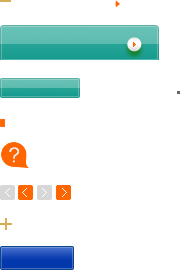
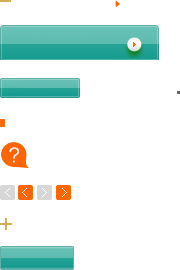
v2

Changed region(s): [[0.0, 0.8889, 0.4167, 1.0]]

diff --git a/product-info.html b/product-info.html
@@ -267,28 +267,24 @@ window.onload = function(){
                                 
                                 <div class="desc-order-area fl">
                                 	<div class="desc-wrap">
-                                    	<h3 class="pro-name">0.5~1A 50V~1000V 贴片整流桥堆</h3>
-                                        <p><label>型号：</label><span></span></p>
-                                        <p><label>品牌：</label><span></span></p>
-                                        <p><label>封装：</label><span></span></p>
-                                        <p><label>特性：</label><span></span></p>
-                                        <ul class="feature-items clear">
-                                            <li class="feature-item"><label>★典型参数：</label><span></span></li>
-                                            <li class="feature-item"><label>★芯片材质：</label><span></span></li>
-                                            <li class="feature-item"><label>★正向电流(Io)：</label><span></span></li>
-                                            <li class="feature-item"><label>★芯片个数：</label><span></span></li>
-                                            <li class="feature-item"><label>★向电压(VF)：</label><span></span></li>
-                                            <li class="feature-item"><label>★芯片尺寸：</label><span></span></li>
-                                            <li class="feature-item"><label>★浪涌电流(ifsm)：</label><span></span></li>
-                                            <li class="feature-item"><label>★是否进口：</label><span></span></li>
-                                            <li class="feature-item"><label>★漏电流(Ir)：</label><span></span></li>
-                                            <li class="feature-item"><label>★工作温度：</label><span></span></li>
-                                            <li class="feature-item"><label>★恢复实践(Trr)：</label><span></span></li>
-                                            <li class="feature-item"><label>★引线数量：</label><span></span></li>
+                                    	<h3 class="pro-name">开关电源NES-100-5 100W 5V20A 集中供电</h3>
+                                        <p>主要特点:</p>
+                                      	<ul class="feature-items clear">
+                                            <li class="feature-item"><label>★全球通用全范围交流输入电压</label></li>
+                                            <li class="feature-item"><label>★有短路保护/过载保护/过电压保护</label></li>
+                                            <li class="feature-item"><label>★通过国际安规认证UL/CB/CCC</label></li>
+                                            <li class="feature-item"><label>★通过中国国家安规认证 CCC认证</label></li>
+                                            <li class="feature-item"><label>★自然通风冷却</label></li>
+                                            <li class="feature-item"><label>★小尺寸、高功率密度</label></li>
+                                            <li class="feature-item"><label>★高性价比、高可靠</label></li>
+                                            <li class="feature-item"><label>★100%满载老化测试</label></li>
+                                            <li class="feature-item"><label>★有安规认证的低功率电源最佳解决方案</label></li>
+                                            <li class="feature-item"><label>★台湾明纬品牌,广州工厂生产</label></li>
+                                            <li class="feature-item"><label>★2年质保</label></li>
                                         </ul>
                                     </div>
                                     <div class="order-wrap">
-                                    	<p class="order-hot-line"><span>订购热线：</span><em>400-9929-667</em></p>
+                                    	<p class="order-hot-line"><span>订购热线：</span><em>020-2918-5403</em></p>
                                         <button>立即采购</button>
                                     </div>
                                 </div>
@@ -382,67 +378,100 @@ window.onload = function(){
                                 
                                 <div class="pro-detail">
                                 	<img src="images/products/pro-imgs/rectifier-bridge/product1/pic1.png"/>
-                                    <p class="pro-name">IP系列-LED系列驱动电源 IPGK15W</p>
+                                    <p class="pro-name">开关电源NES-100-5 100W 5V20A 集中供电</p>
                                     <div class="param-wrap">
-                                    	<table class="pro-feature">
-                                            <tr>
-                                            	<td colspan="2" class="title">0.5~1A 50V~1000V 贴片整流桥堆</td>
-                                            </tr>
-                                            <tr>
-                                            	<td colspan="2"></td>
-                                            </tr>
-                                            <tr>
-                                            	<td colspan="2">产品特性(Overview)</td>
-                                            </tr>
-                                            <tr>
-                                            	<td width="350"><em>★</em>国际通用范围内交流输入(90~264VAC) AC Input(90~264VAC)</td>
-                                                <td><em>★</em>100%满载老化测试 100% Full Load Burn-in Test</td>
-                                            </tr>
-                                            <tr>
-                                            	<td><em>★</em>保护种类:短路/过负载/过电压 Protections:Short Circuit/Over Load/Over Voltage/Over Temp</td>
-                                                <td><em>★</em>高度信赖 High Reliability</td>
-                                            </tr>
+                                    	<table class="pro-param">
+                                            <thead>
+                                                <tr>
+                                                    <td colspan="2" class="title">开关电源NES-100-5 100W 5V20A 集中供电</td>
+                                                </tr>
+                                            </thead>
+                                            <tbody>
+                                                <tr>
+                                                    <td colspan="2"></td>
+                                                </tr>
+                                                <tr>
+                                                    <td colspan="2">主要参数</td>
+                                                </tr>
+                                                <tr>
+                                                    <td width="200">直流输出范围</td>
+                                                    <td></td>
+                                                </tr>
+                                                <tr>
+                                                    <td>输出电压精度</td>
+                                                    <td></td>
+                                                </tr>
+                                                
+                                                <tr>
+                                                    <td>纹波</td>
+                                                    <td></td>
+                                                </tr>
+                                                
+                                                <tr>
+                                                    <td>效率</td>
+                                                    <td></td>
+                                                </tr>
+                                                
+                                                <tr>
+                                                    <td>输入电压范围</td>
+                                                    <td></td>
+                                                </tr>
+                                                <tr>
+                                                    <td>输入浪涌电流</td>
+                                                    <td></td>
+                                                </tr>
+                                                <tr>
+                                                    <td>电压调整范围</td>
+                                                    <td></td>
+                                                </tr>
+                                                <tr>
+                                                    <td>过载保护</td>
+                                                    <td>过电流点在110%～150%,自动侦测自动复原</td>
+                                                </tr>
+                                                <tr>
+                                                    <td>过电压保护</td>
+                                                    <td></td>
+                                                </tr>
+                                                <tr>
+                                                    <td>启动,上升时间</td>
+                                                    <td></td>
+                                                </tr>
+                                            </tbody>
                                             
-                                            <tr>
-                                            	<td><em>★</em>内置主动式PFC功能Built-in Active PFC Function</td>
-                                                <td><em>★</em>适合LED照明要求 Suitable for Led Lighting</td>
-                                            </tr>
+                                            <tbody>
+                                                <tr>
+                                                    <td colspan="2"></td>
+                                                </tr>
+                                                <tr>
+                                                    <td colspan="2">参考使用范围</td>
+                                                </tr>
+                                                
+                                                <tr>
+                                                    <td>输入浪涌电流</td>
+                                                    <td></td>
+                                                </tr>
+                                                <tr>
+                                                    <td>输入浪涌电流</td>
+                                                    <td></td>
+                                                </tr>
+                                            </tbody>
                                             
-                                            <tr>
-                                            	<td><em>★</em>自然风冷 Cooling by Free Air Convection</td>
-                                                <td><em>★</em>3年内保修(备注5) 3 Years Warranty(Remark5)</td>
-                                            </tr>
-                                            
-                                        </table>
-                                        
-                                        <table class="pro-param">
-                                            <tr>
-                                            	<td colspan="2" class="split"></td>
-                                            </tr>
-                                            <tr>
-                                            	<td width="230">型号 Model</td>
-                                                <td>IPGK15W/36W</td>
-                                            </tr>
-                                            <tr>
-                                            	<td>电压范围 Voltage Range</td>
-                                                <td>90~264V</td>
-                                            </tr>
-                                            <tr>
-                                            	<td>启动时间 Setup Rise Time</td>
-                                                <td>1500ms/115V 500ms/230V</td>
-                                            </tr>
-                                            <tr>
-                                            	<td>频率 Frequency</td>
-                                                <td>47~63HZ</td>
-                                            </tr>
-                                            <tr>
-                                            	<td>功率因素 Power Factor</td>
-                                                <td>≥95%</td>
-                                            </tr>
-                                            <tr>
-                                            	<td>浪涌电流(最大) AC Inrush Current</td>
-                                                <td>40A/230VAC</td>
-                                            </tr>
+                                            <tbody>
+                                                <tr>
+                                                    <td colspan="2"></td>
+                                                </tr>
+                                                <tr>
+                                                    <td colspan="2">参考使用灯具</td>
+                                                </tr>
+                                                <tr>
+                                                    <td>输入浪涌电流</td>
+                                                    <td></td>
+                                                </tr>
+                                                <tr>
+                                                    <td>输入浪涌电流</td>
+                                                    <td></td>
+                                                </tr>
+                                            </tbody>
                                         </table>
                                         
                                     </div>
@@ -485,20 +514,13 @@ window.onload = function(){
                                <div class="contact">
                                    <div class="address">
                                        <p>方成联系方式：</p>
-                                       <p>深圳方成电子有限公司</p>
-                                       <p>展销地址：深圳市福田区振中路新亚洲电子商城1A009</p>
-                                       <p>公司地址：深圳市福田区振华路鼎诚国际大厦1505</p>
+                                       <p>广州市方成电源</p>
+                                       <p>地址：广州市白云区均和街道石马村环约大街18号</p>
                                    </div>
 
                                    <div class="phone">
-                                       <p>市场部电话：0755-82812525</p>
-                                       <p>销售一部：0755-66883103</p>
-                                       <p>销售二部：0755-66883105</p>
-                                       <p>销售三部：0755-66883108</p>
-                                       <p>传真：0755-66883107</p>
-                                       <p>24小时值班电话：13632557728</p>
-                                       <p>400电话：400-9929-667</p>
-                                       <p>邮箱：sales@fch88.com</p>
+                                       <p>传真:020-28064627</p>
+									   <p>电话:020-29185403</p>
                                    </div>
                                </div>
                             </div>

diff --git a/contact-fch.html b/contact-fch.html
@@ -191,24 +191,17 @@
                         <div class="pro-list-wrap">
 
                             <div class="contact">
-                                <div class="address">
-                                    <p>方成联系方式：</p>
-                                    <p>深圳方成电子有限公司</p>
-                                    <p>展销地址：深圳市福田区振中路新亚洲电子商城1A009</p>
-                                    <p>公司地址：深圳市福田区振华路鼎诚国际大厦1505</p>
-                                </div>
+                                   <div class="address">
+                                       <p>方成联系方式：</p>
+                                       <p>广州市方成电源</p>
+                                       <p>地址：广州市白云区均和街道石马村环约大街18号</p>
+                                   </div>
 
-                                <div class="phone">
-                                    <p>市场部电话：0755-82812525</p>
-                                    <p>销售一部：0755-66883103</p>
-                                    <p>销售二部：0755-66883105</p>
-                                    <p>销售三部：0755-66883108</p>
-                                    <p>传真：0755-66883107</p>
-                                    <p>24小时值班电话：13632557728</p>
-                                    <p>400电话：400-9929-667</p>
-                                    <p>邮箱：sales@fch88.com</p>
-                                </div>
-                            </div>
+                                   <div class="phone">
+                                       <p>传真:020-28064627</p>
+									   <p>电话:020-29185403</p>
+                                   </div>
+                               </div>
                             
 
                             

diff --git a/css/product-info.css b/css/product-info.css
@@ -109,7 +109,7 @@
 .pro-list-wrap .pro-detail-wrap .desc-order-area .desc-wrap h3 {margin-bottom:7px;padding-bottom:13px;font:14px/14px '宋体';color:#262626;font-weight:bold;border-bottom:1px dashed #dadada;}
 .pro-list-wrap .pro-detail-wrap .desc-order-area .desc-wrap p {padding:6px 0;font:14px/14px '宋体';color:#262626;font-weight:bold;}
 .pro-list-wrap .pro-detail-wrap .desc-order-area .desc-wrap .feature-items {width:340px;}
-.pro-list-wrap .pro-detail-wrap .desc-order-area .desc-wrap .feature-item {float:left;width:165px;padding:9px 5px 9px 0;font:12px/12px '宋体';color:#262626;overflow:hidden; white-space:nowrap;text-overflow:ellipsis;}
+.pro-list-wrap .pro-detail-wrap .desc-order-area .desc-wrap .feature-item {padding:9px 5px 9px 0;font:12px/12px '宋体';color:#262626;overflow:hidden; white-space:nowrap;text-overflow:ellipsis;}
 .pro-list-wrap .pro-detail-wrap .desc-order-area .desc-wrap .feature-item label {}
 .pro-list-wrap .pro-detail-wrap .desc-order-area .desc-wrap .feature-item span {}
 
@@ -172,7 +172,7 @@ font:20px/20px '宋体';color:#654009;height:44px;padding:0 10px;}
 
 /*评论 */
 .review-wrap {}
-.review-wrap h4 {font:14px/14px '宋体';color:#666666;border-bottom:4px solid #0337ac;padding:7px 13px;}
+.review-wrap h4 {font:14px/14px '宋体';color:#666666;border-bottom:4px solid #2f958a;padding:7px 13px;}
 .review-wrap h4 i {}
 
 .review-wrap .review-bd {padding:18px 0; border-bottom:1px solid #dfdfdf;}
@@ -202,7 +202,7 @@ font:20px/20px '宋体';color:#654009;height:44px;padding:0 10px;}
 
 /*联系我们*/
 
-.contact {background:url(../images/products/contact-bg.png) no-repeat right bottom;}
+.contact {background:url(../images/products/contact-bg.png) no-repeat right bottom;height:389px;}
 .contact p {font:14px/14px '宋体';color:#666666;padding:8px 0 9px;}
 .contact .address {margin:26px 0 17px;}
 .contact .phone{margin-bottom:59px; }

diff --git a/css/contact-fch.css b/css/contact-fch.css
@@ -94,7 +94,7 @@ color:#666666;font-weight:bold;}
 
 /*联系我们*/
 
-.contact {background:url(../images/products/contact-bg.png) no-repeat right bottom;}
+.contact {background:url(../images/products/contact-bg.png) no-repeat right bottom;height:389px;}
 .contact p {font:14px/14px '宋体';color:#666666;padding:8px 0 9px;}
 .contact .address {margin:26px 0 17px;}
 .contact .phone{margin-bottom:59px; }
